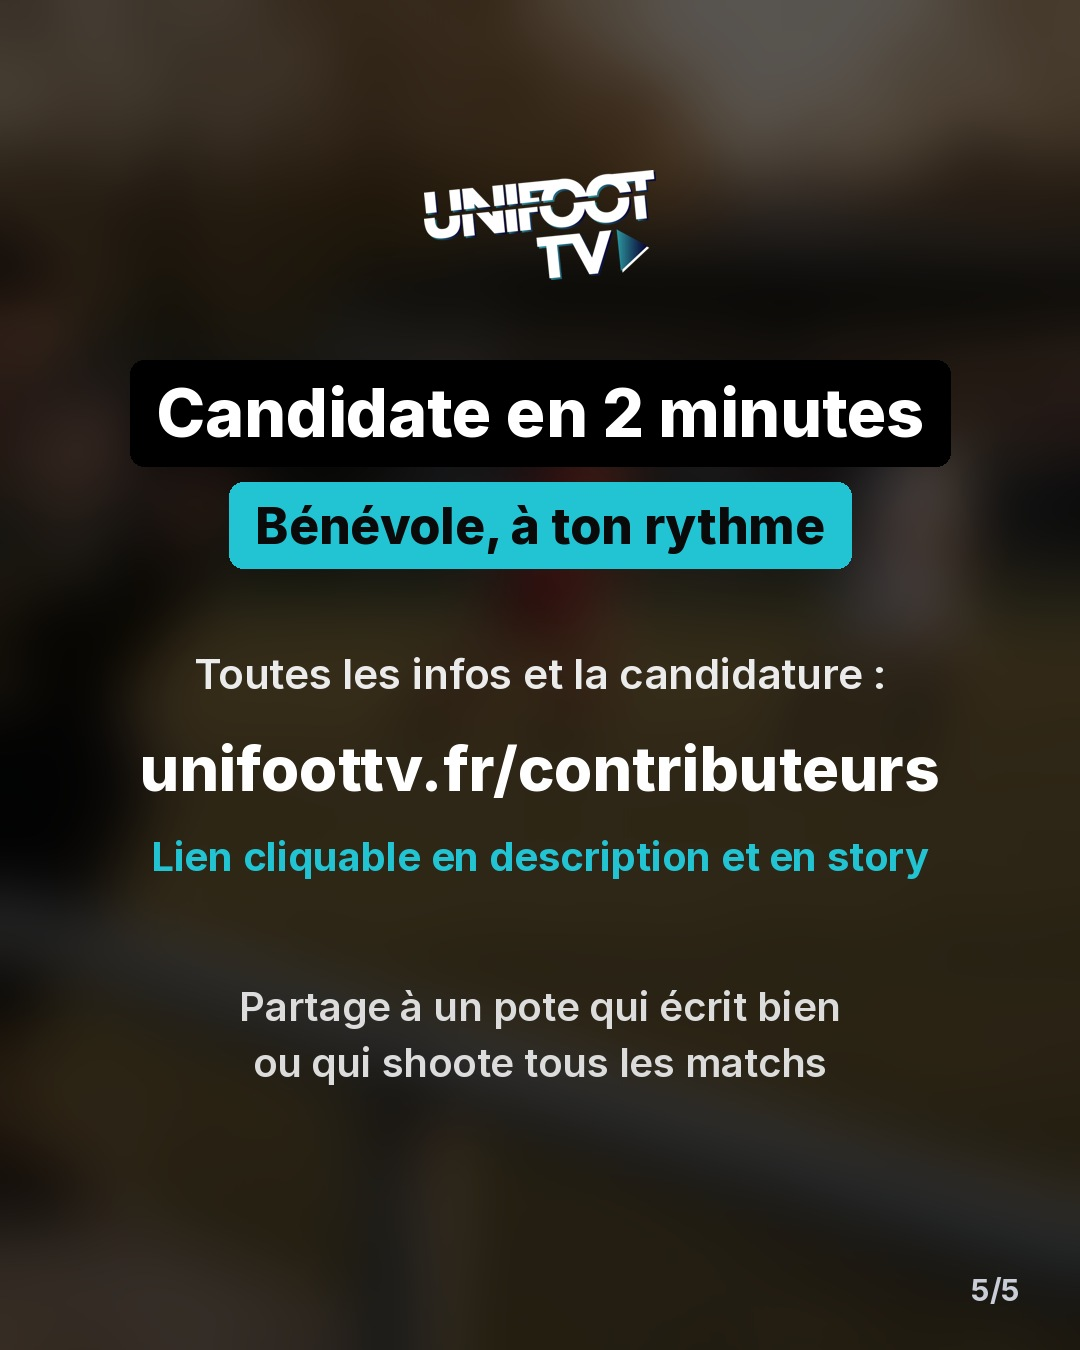
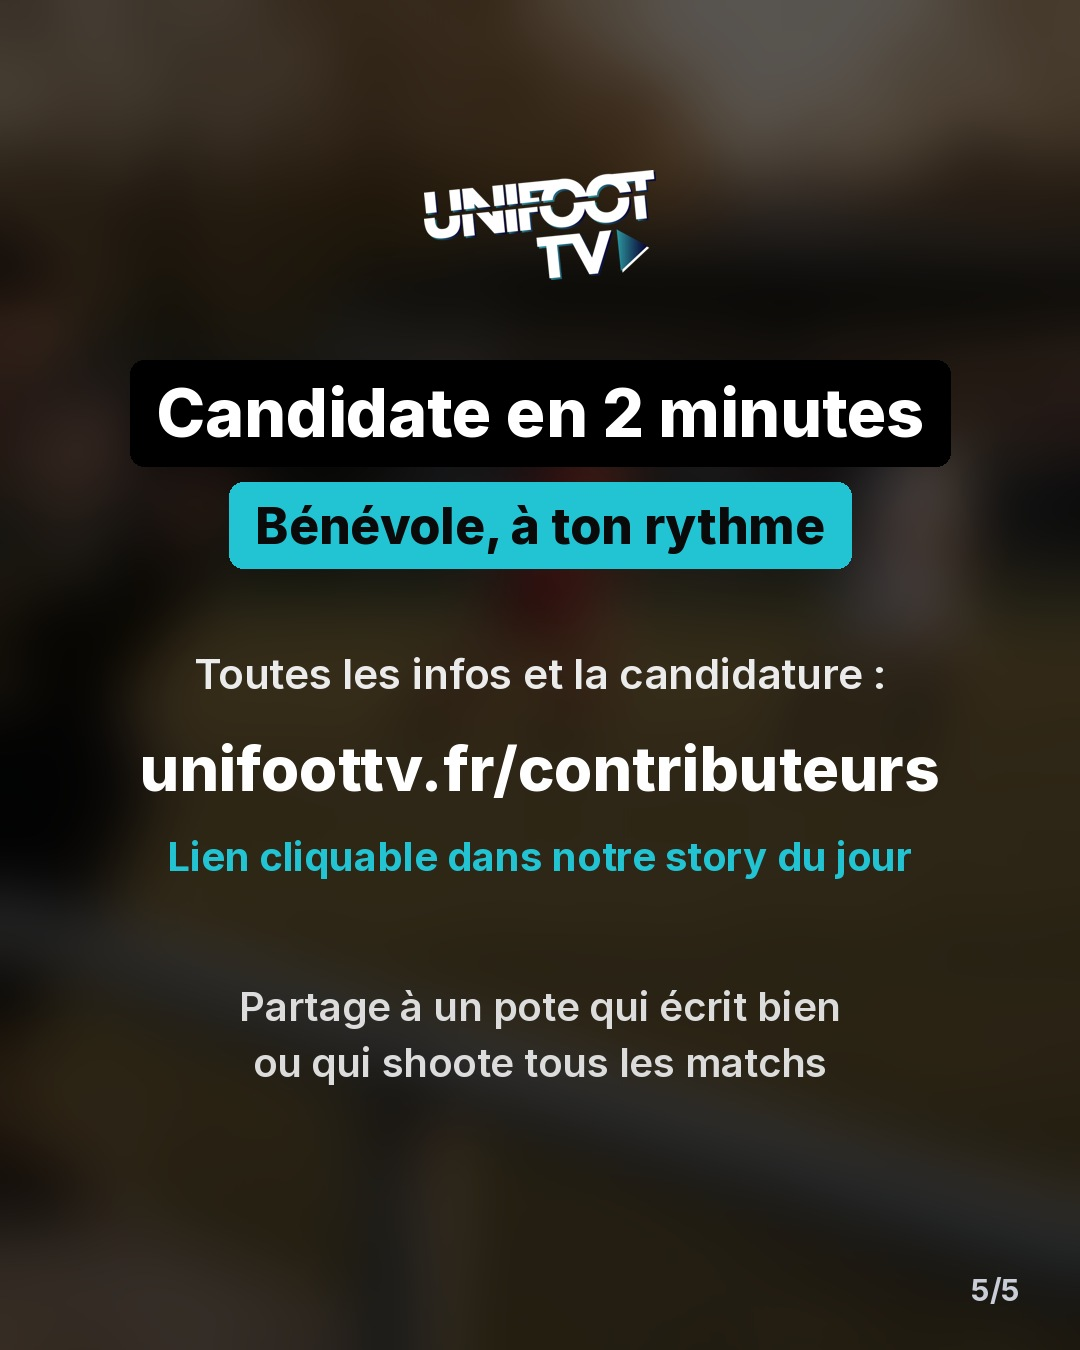
Promo contributeurs : mention du lien cliquable en story
Claude-Session: https://claude.ai/code/session_013rfF2X7KN3Vzq4WuT958pE

Changed region(s): [[0.1222, 0.6222, 0.8556, 0.6533]]

diff --git a/tools/promo/contrib.py b/tools/promo/contrib.py
@@ -86,7 +86,7 @@ def cta(photo,out):
     y=360
     for l in ['Candidate en 2 minutes']: y+=box(d,W,y,l,FN('ExtraBold',66))+16
     y+=box(d,W,y,'Bénévole, à ton rythme',FN('ExtraBold',50),fill=TEAL,tc=(10,10,10))+80
-    for l,f,c in [('Toutes les infos et la candidature :',FN('SemiBold',42),(235,235,235)),('unifoottv.fr/contributeurs',FN('ExtraBold',62),(255,255,255)),('Lien cliquable en description et en story',FN('Bold',40),TEAL)]:
+    for l,f,c in [('Toutes les infos et la candidature :',FN('SemiBold',42),(235,235,235)),('unifoottv.fr/contributeurs',FN('ExtraBold',62),(255,255,255)),('Lien cliquable dans notre story du jour',FN('Bold',40),TEAL)]:
         w=d.textlength(l,font=f); d.text(((W-w)/2,y),l,font=f,fill=c); y+=f.size+40
     y+=70
     for l in ['Partage à un pote qui écrit bien','ou qui shoote tous les matchs 📲']:
